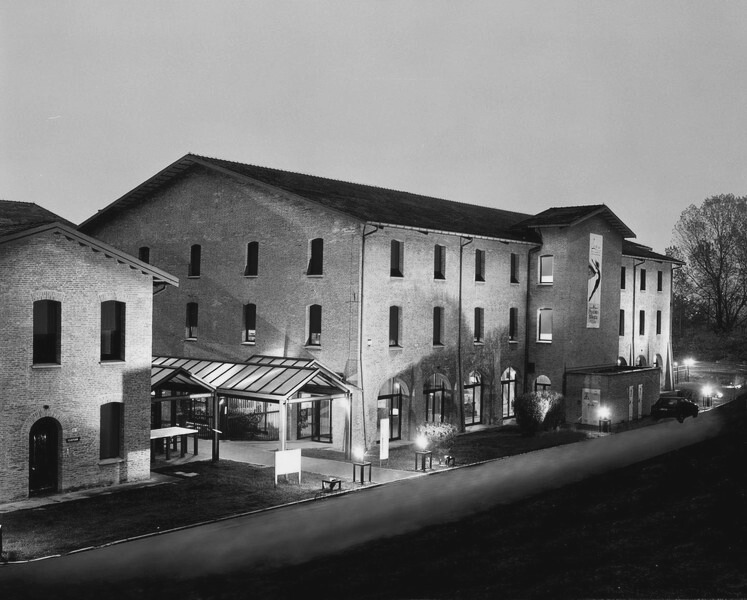
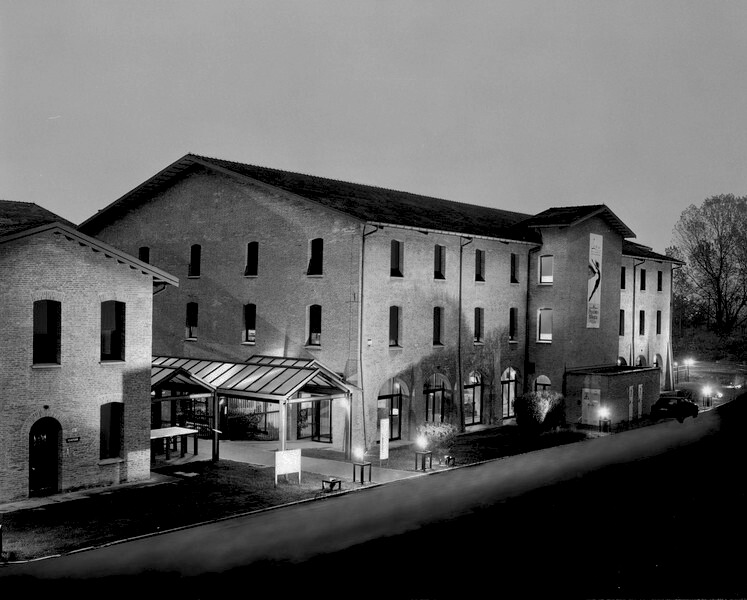
color corrections and taking the margin off of the index

diff --git a/css/the-museum.css b/css/the-museum.css
@@ -135,11 +135,11 @@ hr {
     /* Section 1: Introduction */
     .section1 {
       height: auto;
-      min-height: 100vh;
+      min-height: 130vh;
       background-color: #0b0b0b;
       position: relative;
       background-size: cover;
-      background-position: center;
+      background-position-y: 30%;
       background-image: url(../images/the-museum-b&w.jpg);
     }
 
@@ -147,7 +147,7 @@ hr {
       position: relative;
       display: flex;
       flex-direction: column;
-      width: 70%;
+      width: 60%;
       align-items: left;
       font-family: 'Cooper Hewitt', sans-serif; 
       padding-top: 16%;
@@ -176,7 +176,7 @@ hr {
       -webkit-box-orient: vertical;
       overflow: hidden;
       text-overflow: ellipsis;
-      line-height: 1.5;
+      line-height: 1.3;
     }
 
 
@@ -200,6 +200,7 @@ hr {
       font-family: 'Cooper Hewitt', sans-serif;
       font-weight: bold;
       white-space: nowrap;
+      font-size: 20px;
     }
 
     /* Section 2: The Map*/
@@ -223,7 +224,7 @@ hr {
           position: relative;
           width: 35vw;
           height: 100vh;
-          background: #0b0b0b;
+          background: #141413;
           overflow: hidden;
           padding-bottom: 60px;
         }
@@ -491,7 +492,7 @@ hr {
           border-bottom-left-radius: 8px;
           z-index: 100;
           right: -15vw;
-          top: 20vh;
+          top: 5.9vh;
       }
       .user-btn-container:hover {
           background-color: #CD5909;

diff --git a/index.html b/index.html
@@ -244,15 +244,11 @@
                     <div class="carousel-controls-container">
                         <button class="carousel-control-prev" type="button"  data-bs-target="#myCarousel" 
                         data-bs-slide="prev" title="Previous">
-                          <span class="custom-prev">
-                            <i class="fa-solid fa-arrow-left-long"></i>
-                          </span>
+                          <span class="custom-prev">ground floor</span>
                         </button>
                         <button class="carousel-control-next" type="button" data-bs-target="#myCarousel" 
                         data-bs-slide="next" title="Next">
-                          <span class="custom-next">
-                            <i class="fa-solid fa-arrow-right-long"></i>
-                          </span>
+                          <span class="custom-next">first floor</span>
                         </button>
                       </div>
                     </div>

diff --git a/css/stylesheet.css b/css/stylesheet.css
@@ -402,7 +402,7 @@
     left: 50%;
     align-items: center;
     transform: translateX(-50%);
-    margin-bottom: 10%;
+    padding-bottom: 5vh;
   }
 
   .carousel-inner a{
@@ -807,10 +807,6 @@ footer {
     margin-top: 30%;
   }
 
-  .custom-arrow {
-    font-size: 1.5rem;
-  }
-
   .carousel-item img {
     width: 50% !important;
     max-width: none;
@@ -830,7 +826,6 @@ footer {
     transform: translateX(-50%);
     gap: 90%;
     top: 50%;
-    font-size: 1.5em;
 }
 
  /*Footer*/

diff --git a/the-museum.html b/the-museum.html
@@ -67,7 +67,7 @@
       <!--navbar-->
     <!--introduction text-->
     <div class="introduction-container">
-      <h1>Inside the<br> Museum</h1>
+      <h1>Inside <br>the<br> Museum</h1>
       <p class="introduction-text">Navigate through both floors by clicking on the numbers to dive deeper into each
         section. Enjoy discovering the
         stories behind the artifacts as you move through the museum!
